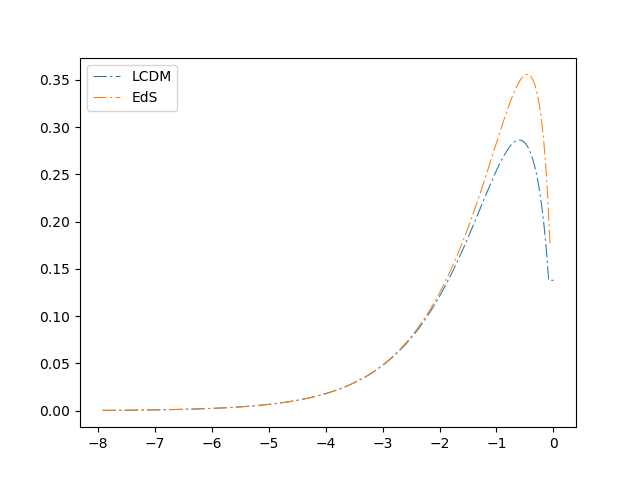
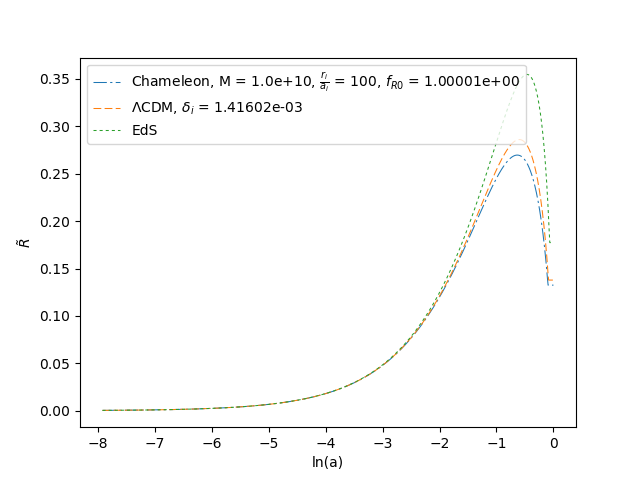
Implemented simplyfied dr/r stuff and produced some numbers and figures

diff --git a/Kode/betternewvir.py b/Kode/betternewvir.py
@@ -8,19 +8,23 @@ from scipy.integrate import odeint
 import sys
 
 
-def vircheck(R, y, Omega_m0, Lambda, delta_i, acceleration, E, file):
+H_0 = 70 #km/s/Mpc
+G = 6.67408e-11 		#M^3/kg/s^2
+M_pl = 1./np.sqrt(8*np.pi*G)
+
+def vircheck(R, y, Omega_m0, Lambda, delta_i, acceleration, E, gamma, beta, M, f_R0, r_iovera_i, delta_rho, n, file):
 
 	a = np.exp(y)
 
 	rad = R[:, 0]
 	drdy = R[:, 1]
-	ddrddy = acceleration(Omega_m0, Lambda, delta_i, a, rad, drdy, E, 0, 0)
+	ddrddy = acceleration( Omega_m0, Lambda, delta_i, a, rad, drdy, E, gamma, beta, M, f_R0, r_iovera_i, delta_rho, n )
 	s = j = np.argmax(rad)
 
 	T = kinetic(drdy)
-	W = potential(rad, drdy, ddrddy, a, E, Omega_m0, Lambda)
+	W = potential(rad, drdy, ddrddy, a, E, Omega_m0, Lambda, gamma, beta)
 
-	W_ta = potential(rad[s], drdy[s], ddrddy[s], a[s], E, Omega_m0, Lambda)
+	W_ta = potential(rad[s], drdy[s], ddrddy[s], a[s], E, Omega_m0, Lambda, gamma, beta)
 
 	vir = False
 
@@ -38,47 +42,49 @@ def vircheck(R, y, Omega_m0, Lambda, delta_i, acceleration, E, file):
 		i = j
 		print "It did not work"
 
-	while i < len(rad):
-		rad[i] = rad[k]
-		i += 1
+	if vir:
+		while i < len(rad):
+			rad[i] = rad[k]
+			i += 1
 
-	odensity = (Omega_m0*(1+delta_i)/rad[k]**3)/(Omega_m0/a[k]**3)
-	odensitymax = (Omega_m0*(1+delta_i)/rad[s]**3)/(Omega_m0/a[s]**3)
+		odensity = (Omega_m0*(1+delta_i)/rad[k]**3)/(Omega_m0/a[k]**3)
+		odensitymax = (Omega_m0*(1+delta_i)/rad[s]**3)/(Omega_m0/a[s]**3)
 
-	file.write("{:1.5f} \n".format(odensity))
-	file.write("{:1.5f} \n".format(odensitymax))
+		file.write("{:1.5f} \n".format(odensity))
+		file.write("{:1.5f} \n".format(odensitymax))
 
-	rviroverrta = rad[k]/rad[s]
-	aviroverata = a[k]/a[s]
+		rviroverrta = rad[k]/rad[s]
+		aviroverata = a[k]/a[s]
 
-	file.write("{:1.10e} \n".format(rviroverrta))
-	file.write("{:1.5f} \n".format(aviroverata))
-
+		file.write("{:1.10e} \n".format(rviroverrta))
+		file.write("{:1.5f} \n".format(aviroverata))
+	else:
+		file.write("These parameters do not lead to collapse.")
 	return rad, T, W
 
 
-def kinetic(drdy):
+def kinetic( drdy ):
 	return 3./10.*drdy**2
 
-def potential(radius, dotR, ddotR, a, E, Omega_m0, Lambda):
-	W = 3./5.*radius*(-3*Omega_m0/(2*a**3*E(Omega_m0, Lambda, a, 0, 0))*dotR + ddotR)
+def potential( radius, dotR, ddotR, a, E, Omega_m0, Lambda, gamma, beta ):
+	W = 3./5.*radius*(-3*Omega_m0/(2*a**3*E(Omega_m0, Lambda, a, gamma, beta))*dotR + ddotR)
 	return W
 
 
-def r(x, y, Omega_m0, Lambda, r_i, delta_i, acceleration, E):
+def r( x, y, acceleration, Omega_m0, Lambda, delta_i, E, gamma, beta, M, f_R0, r_iovera_i, delta_rho, n ):
 	#input function to be used by odeint. Generic form for a seccond order ode
 	r = x[0]
 	drdy = x[1]
 	a = np.exp(y)
 	rr = [[],[]]
 	rr[0] = drdy
-	rr[1] = acceleration(Omega_m0, Lambda, delta_i, a, r, drdy, E, 0, 0)	
+	rr[1] = acceleration( Omega_m0, Lambda, delta_i, a, r, drdy, E, gamma, beta, M, f_R0, r_iovera_i, delta_rho, n )	
 
 	return rr
 
 
 
-def findcoll(tolerance, acceleration, model, E, y0, file):
+def findcoll(tolerance, acceleration, model, E, gamma, beta, M, f_R0, r_iovera_i, delta_rho, n, y0, file):
 
 	#Set initial conditions and time array
 	N = 5000000
@@ -104,7 +110,7 @@ def findcoll(tolerance, acceleration, model, E, y0, file):
 	colltime_max = 10
 
 	delta_max = 0.01
-	delta_min = 0.0000001
+	delta_min = 0.00000001
 	j = 0
 
 	while abs(colltime_max) >= abs(tol):
@@ -113,15 +119,15 @@ def findcoll(tolerance, acceleration, model, E, y0, file):
 		delta_mid = (delta_max + delta_min)/2.0
 
 		# solve for deltamax
-		radiusmax = odeint(r, [r0, drdx0], y, args = (Omega_m0, Lambda, r0, delta_max, acceleration, E))
+		radiusmax = odeint(r, [r0, drdx0], y, args = ( acceleration, Omega_m0, Lambda, delta_max, E, gamma, beta, M, f_R0, r_iovera_i, delta_rho, n) )
 
 
 		#solve for deltamin
-		radiusmin = odeint(r, [r0, drdx0], y, args = (Omega_m0, Lambda, r0, delta_min, acceleration, E))
+		radiusmin = odeint(r, [r0, drdx0], y, args = ( acceleration, Omega_m0, Lambda, delta_min, E, gamma, beta, M, f_R0, r_iovera_i, delta_rho, n) )
 
 
 		#solve for deltamid
-		radiusmid = odeint(r, [r0, drdx0], y, args = (Omega_m0, Lambda, r0, delta_mid, acceleration, E))
+		radiusmid = odeint(r, [r0, drdx0], y, args = ( acceleration, Omega_m0, Lambda, delta_mid, E, gamma, beta, M, f_R0, r_iovera_i, delta_rho, n) )
 
 		for i in range(len(radiusmax[:,0])):
 			if radiusmax[i,0] <= 0:
@@ -155,6 +161,14 @@ def findcoll(tolerance, acceleration, model, E, y0, file):
 		elif ( not collmax):
 			print "well shiet"
 
+		if ( collmin ):
+			if delta_min == 0:
+				print "Well damn.."
+				delta_max = 0
+				break
+			delta_min = 0
+			
+
 		#set x_coll, which is returned from findcoll()
 		x_coll = colltime_max
 
@@ -171,51 +185,84 @@ def findcoll(tolerance, acceleration, model, E, y0, file):
 	ct = np.exp(-x_coll) -1
 	file.write("{:1.7f} \n".format(delta_max))
 	file.write("{:1.7e} \n".format(ct))
+	print delta_max
 
-	R = odeint(r, [r0, drdx0], y, args = (Omega_m0, Lambda, r0, delta_max, acceleration, E))
+	R = odeint(r, [r0, drdx0], y, args = ( acceleration, Omega_m0, Lambda, delta_max, E, gamma, beta, M, f_R0, r_iovera_i, delta_rho, n ) )
 
 	#mpl.plot(y, R[:,0], linewidth = 0.75, label = model)
+	
 
-	rvir, T, W = vircheck(R, y, Omega_m0, Lambda, delta_max, acceleration, E, file)
-	mpl.plot(y, rvir, "-.", linewidth = 0.75, label = model)
+	rvir, T, W = vircheck( R, y, Omega_m0, Lambda, delta_max, acceleration, E, gamma, beta, M, f_R0, r_iovera_i, delta_rho, n, file )
+	if model == "Chameleon":
+		mpl.plot(y, rvir, "-.", linewidth = 0.75, label = r"Chameleon, M = %1.1e, $\frac{r_i}{a_i}$ = %1.0f, $f_{R0}$ = %1.5e" % (M, r_iovera_i, f_R0))
+	elif model == "LCDM":
+		mpl.plot(y, rvir, "--", linewidth = 0.75, label = r"$\Lambda$CDM, $\delta_i$ = %1.5e" % delta_max)
+	elif model == "EdS":
+		mpl.plot(y, rvir, ":", linewidth = 0.75, label = model)
 
 	return T, W, y
 
+def d_rho(Omega_m0, delta_i, R, r_iovera_i):
+	return Omega_m0*(1 + delta_i)*r_iovera_i**3/R**3
 
-def LCDMacc( Omega_m0, Lambda, delta_i, a, r, drdy, E, gamma, beta):
+
+def LCDMacc( Omega_m0, Lambda, delta_i, a, r, drdy, E, gamma, beta, M, f_R0, r_iovera_i, delta_rho, n ):
 	return (-Omega_m0*(1+delta_i)/(2.*r**2) + r*Lambda + 3./2.*drdy*Omega_m0/a**3)/E(Omega_m0, Lambda, a, 0, 0)
 
 def ELCDMnorad(Omega_m0, Lambda, a, gamma, beta):
 	return Omega_m0/a**3 + Lambda
 
-def chameleonacc( Omega_m0, Lambda, delta_i, a, r, drdy, E, gamma, beta):
-	return  ( Lambda*r - gamma()*Omega_m0*(1 + delta_i)/(2*r**2) + 3./2.*gamma()*Omega_m0*drdy/a**3)/E(Omega_m0, Lambda, a, gamma)
+def chameleonacc( Omega_m0, Lambda, delta_i, a, r, drdy, E, gamma, beta, M, f_R0, r_iovera_i, delta_rho, n ):
+	return  ( Lambda*r - gamma(Omega_m0, Lambda, delta_i, beta, n, M, f_R0, r_iovera_i, delta_rho, r, a, True)*Omega_m0*(1 + delta_i)/(2*r**2) + 3./2.*gamma(Omega_m0, Lambda, 0, beta, 0, 0, 0, 0, 0, 0, 0, False)*Omega_m0*drdy/a**3)/E(Omega_m0, Lambda, a, gamma, beta)
 
-def Echamnorad(Omega_m0, Lambda, a, gamma):
-	return gamma()*Omega_m0/a**3 + Lambda
+def Echamnorad( Omega_m0, Lambda, a, gamma, beta ):
+	return gamma(Omega_m0, Lambda, 0, beta, 0, 0, 0, 0, 0, 0, 0, False)*Omega_m0/a**3 + Lambda
 
-def gammaHuSawicki():
-	return 
+def gammaHuSawicki1( Omega_m0, Lambda, delta_i, beta, n, M, f_R0, r_iovera_i, delta_rho, r, a, perturbation ):
+	if perturbation:
+		return 1 - 2*beta**2*( 1- abs(1 - f_R0)*r_iovera_i*r/(12*beta*G*M)*( (Omega_m0 + 4*Lambda)/(delta_rho(Omega_m0, delta_i, r, r_iovera_i) - Omega_m0/a**3) )**(n/(n + 1)) )
+
+	else:
+		return 1 - 2*beta**2
+
+def gammaHuSawicki( Omega_m0, Lambda, delta_i, a, M_c, R_c, f_R0, beta, R_i, a_i, phi_inf, n ):
+	R_c = R_c(Omega_m0, Lambda, delta_max, phi_inf, n, f_R0)
+	return 1+ 2*beta**2*( 1- abs(1 - f_R0)*r*R_i/(12*beta**2*(G*M_c*a_i))*( (Omega_m0 + 4*Lambda)/(3*M_c/(4*rho_c0*np.pi*R_c**3) - Omega_m0/a**3) ))
+
+def R_c(Omega_m0, Lambda, delta_i, phi_inf, n, f_R0):
+	R_0 = 3*H_0*(Omega_m0 + 4*Lambda)
+	return np.sqrt(delta_i)*phi_inf**2*2*(n + 1)/(M_pl**2*(f_R0 - 1)*R_0)*(M_pl*(1 - f_R0)/(2*beta*phi_inf))**(n/(n + 1))
 
 
 tolerance = float(sys.argv[1])
 y0 = np.log(1/(1+float(sys.argv[2])))
-"""
-findcoll(tolerance, LCDMacc, "LCDM", ELCDMnorad, y0)
-findcoll(tolerance, LCDMacc, "EdS", ELCDMnorad, y0)
+a_i = np.exp(y0)
+
+#findcoll(tolerance, LCDMacc, "LCDM", ELCDMnorad, y0)
+#findcoll(tolerance, LCDMacc, "EdS", ELCDMnorad, y0)
+
+
 
 
 """
 
 fileLCDM = open("Numbers\LCDMviracc.txt", "w")
 fileEdS = open("Numbers\EdSvirracc.txt", "w")
+filecham = open("Numbers\Chameleon10.txt", "w")
 
-T1, W1, y = findcoll(tolerance, LCDMacc, "LCDM", ELCDMnorad, y0, fileLCDM)
-T2, W2, y = findcoll(tolerance, LCDMacc, "EdS", ELCDMnorad, y0, fileEdS)
+print "Working on chameleon"
+Tcham, Wcham, y = findcoll(tolerance, chameleonacc, "Chameleon", Echamnorad, gammaHuSawicki1, 1/np.sqrt(6), 1e10, 1.00001, 100, d_rho, 0.1, y0, filecham)
+print "Working on LCDM"
+T1, W1, y = findcoll(tolerance, LCDMacc, "LCDM", ELCDMnorad, 0, 0, 0, 0, 0, 0, 0, y0, fileLCDM)
+print "Working on EdS"
+T2, W2, y = findcoll(tolerance, LCDMacc, "EdS", ELCDMnorad, 0, 0, 0, 0, 0, 0, 0, y0, fileEdS)
 
 fileLCDM.close()
 fileEdS.close()
+filecham.close()
 
+mpl.xlabel("ln(a)")
+mpl.ylabel(r"$\tilde{R}$", rotation = 0)
 mpl.legend()
 mpl.savefig("Figures\Evolution.png")
 mpl.clf()
@@ -223,21 +270,59 @@ mpl.clf()
 mpl.plot(y, T1, "c-", linewidth = 0.75, label = r"$T_{\Lambda CDM}$")
 mpl.plot(y, -W1, "c--", linewidth = 0.75, label = r"$W_{\Lambda CDM}$")
 
-mpl.plot(y, 0.5*T2, "r:", linewidth = 0.75, label = r"$T_{EdS}$")
+mpl.plot(y, T2, "r:", linewidth = 0.75, label = r"$T_{EdS}$")
 mpl.plot(y, -W2, "r-.", linewidth = 0.75, label = r"$W_{EdS}$")
 
-mpl.yscale("log")
+mpl.plot(y, Tcham, "b-", linewidth = 0.75, label = r"$T_{c10}$")
+mpl.plot(y, Wcham, "b--", linewidth = 0.75, label = r"$W_{c10}$")
 
+mpl.yscale("log")
+mpl.xlabel("ln(a)")
+mpl.ylabel("T / W", rotation = 0)
 mpl.legend()
 mpl.savefig("Figures\Energies.png")
 mpl.clf()
 
 relLCDM = -W1/T1
 relEdS = -W2/T2
+relCham = - Wcham/Tcham
 
-mpl.plot(y, relLCDM, "b-", linewidth = 0.75, label = r"$\frac{W_{\Lambda CDM}}{T_{\Lambda CDM}}$")
+mpl.plot(y, relLCDM, "c-", linewidth = 0.75, label = r"$\frac{W_{\Lambda CDM}}{T_{\Lambda CDM}}$")
 mpl.plot(y, relEdS, "r:", linewidth = 0.75, label = r"$\frac{W_{EdS}}{T_{EdS}}$")
+mpl.plot(y, relCham, "b-.", linewidth = 0.75, label = r"$\frac{W_{c10}}{T_{c10}}$")
 mpl.yscale("log")
+mpl.xlabel("ln(a)")
+mpl.ylabel(r"$-\frac{W}{T}$", rotation = 0)
 mpl.legend()
 mpl.savefig("Figures\RelativeEnergies.png")
+mpl.clf()
+"""
+r_iovera_i_list = [1, 10, 25, 50, 100]
+
+print "On loop over r_i/a_i"
+riloop = open("Numbers\Riloop.txt", "w")
+for rioai in r_iovera_i_list:
+	riloop.write("r_i/a_i = {:1.0f}".format(rioai))
+	Tcham, Wcham, y = findcoll(tolerance, chameleonacc, "Chameleon", Echamnorad, gammaHuSawicki1, 1/np.sqrt(6), 1e10, 1.00001, rioai, d_rho, 0.1, y0, riloop)
+riloop.close()
+mpl.xlabel("ln(a)")
+mpl.ylabel(r"$\tilde{R}$", rotation = 0)
+mpl.legend()
+mpl.savefig("Figures\Riloop.png")
+mpl.clf()
+
+
+print "Loop over f_R0"
+eps = 5e-5
+f_R0_arr = np.linspace(1 - eps, 1 + eps, 10)
+f_R0_loop = open("Numbers\Loopf_R0.txt", "w")
+for f_R0 in f_R0_arr:
+	f_R0_loop.write("f_R0 = {:1.5e}".format(f_R0))
+	Tcham, Wcham, y = findcoll(tolerance, chameleonacc, "Chameleon", Echamnorad, gammaHuSawicki1, 1/np.sqrt(6), 1e10, f_R0, 100, d_rho, 0.1, y0, f_R0_loop)
+
+f_R0_loop.close()
+mpl.xlabel("ln(a)")
+mpl.ylabel(r"$\tilde{R}$", rotation = 0)
+mpl.legend()
+mpl.savefig("Figures\Loopf_R0.png")
 mpl.clf()
